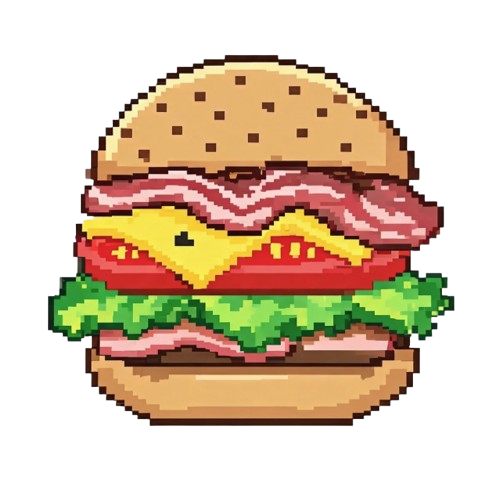
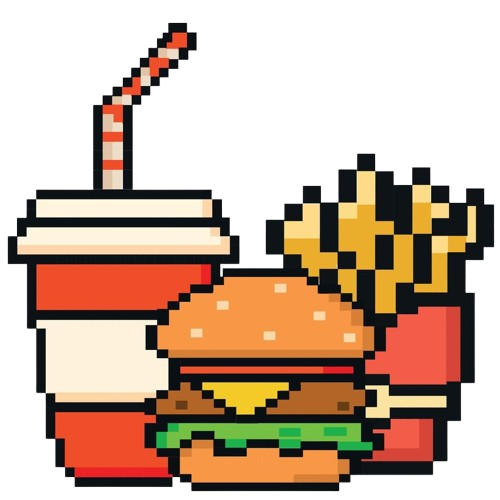
minigame praça completo

diff --git a/lib/3-Praca/minigame_pracaalimentacao.dart b/lib/3-Praca/minigame_pracaalimentacao.dart
@@ -102,18 +102,18 @@ class _MinigamePracaAlimentacaoState
   Map<String, dynamic> get pedido => pedidos[pedidoAtual];
 
   final Map<String, String> imagensIngredientes = {
-    'Pão de baixo': 'assets/fundo/Praca/paodebaixo.png',
-    'Pão de cima':  'assets/fundo/Praca/paodecima.png',
-    'Carne':        'assets/fundo/Praca/carne.png',
-    'Queijo':       'assets/fundo/Praca/queijo.png',
-    'Bacon':        'assets/fundo/Praca/bacon.png',
-    'Alface':       'assets/fundo/Praca/alface.png',
-    'Tomate':       'assets/fundo/Praca/tomate.png',
+    'Pão de baixo': 'assets/fundo/Praca/paodebaixoreto.png',
+    'Pão de cima':  'assets/fundo/Praca/paodecimareto.png',
+    'Carne':        'assets/fundo/Praca/carnereto.png',
+    'Queijo':       'assets/fundo/Praca/queijoreto.png',
+    'Bacon':        'assets/fundo/Praca/baconreto.png',
+    'Alface':       'assets/fundo/Praca/alfacereto.png',
+    'Tomate':       'assets/fundo/Praca/tomatereto.png',
     'Batata':       'assets/fundo/Praca/batata.png',
     'Refrigerante': 'assets/fundo/Praca/refri.png',
   };
 
-  // Altura de cada fatia do lanche na pilha
+// Altura VISUAL REAL de cada ingrediente
   final Map<String, double> alturasCamada = {
     'Pão de baixo': 70.0,
     'Pão de cima':  70.0,
@@ -123,13 +123,12 @@ class _MinigamePracaAlimentacaoState
     'Alface':       28.0,
     'Tomate':       28.0,
   };
-
   // Largura visual de cada camada
   final Map<String, double> largurasIngrediente = {
-    'Pão de baixo': 280.0,
-    'Pão de cima':  280.0,
-    'Carne':        220.0,
-    'Queijo':       210.0,
+    'Pão de baixo': 240.0,
+    'Pão de cima':  230.0,
+    'Carne':        200.0,
+    'Queijo':       180.0,
     'Bacon':        210.0,
     'Alface':       220.0,
     'Tomate':       215.0,
@@ -394,6 +393,7 @@ class _MinigamePracaAlimentacaoState
           ...() {
             List<Widget> widgets = [];
             double acumulado = 0.0;
+            const double espacamento = 18.0;
 
             // Percorre de cima para baixo (o último adicionado fica no topo da pilha)
             for (int i = camadas.length - 1; i >= 0; i--) {
@@ -409,13 +409,12 @@ class _MinigamePracaAlimentacaoState
                   child: Image.asset(
                     imagensIngredientes[item]!,
                     width: w,
-                    height: h,
-                    fit: BoxFit.fill,
+                    fit: BoxFit.contain,
                   ),
                 ),
               );
 
-              acumulado += h;
+              acumulado += espacamento;
             }
 
             return widgets;